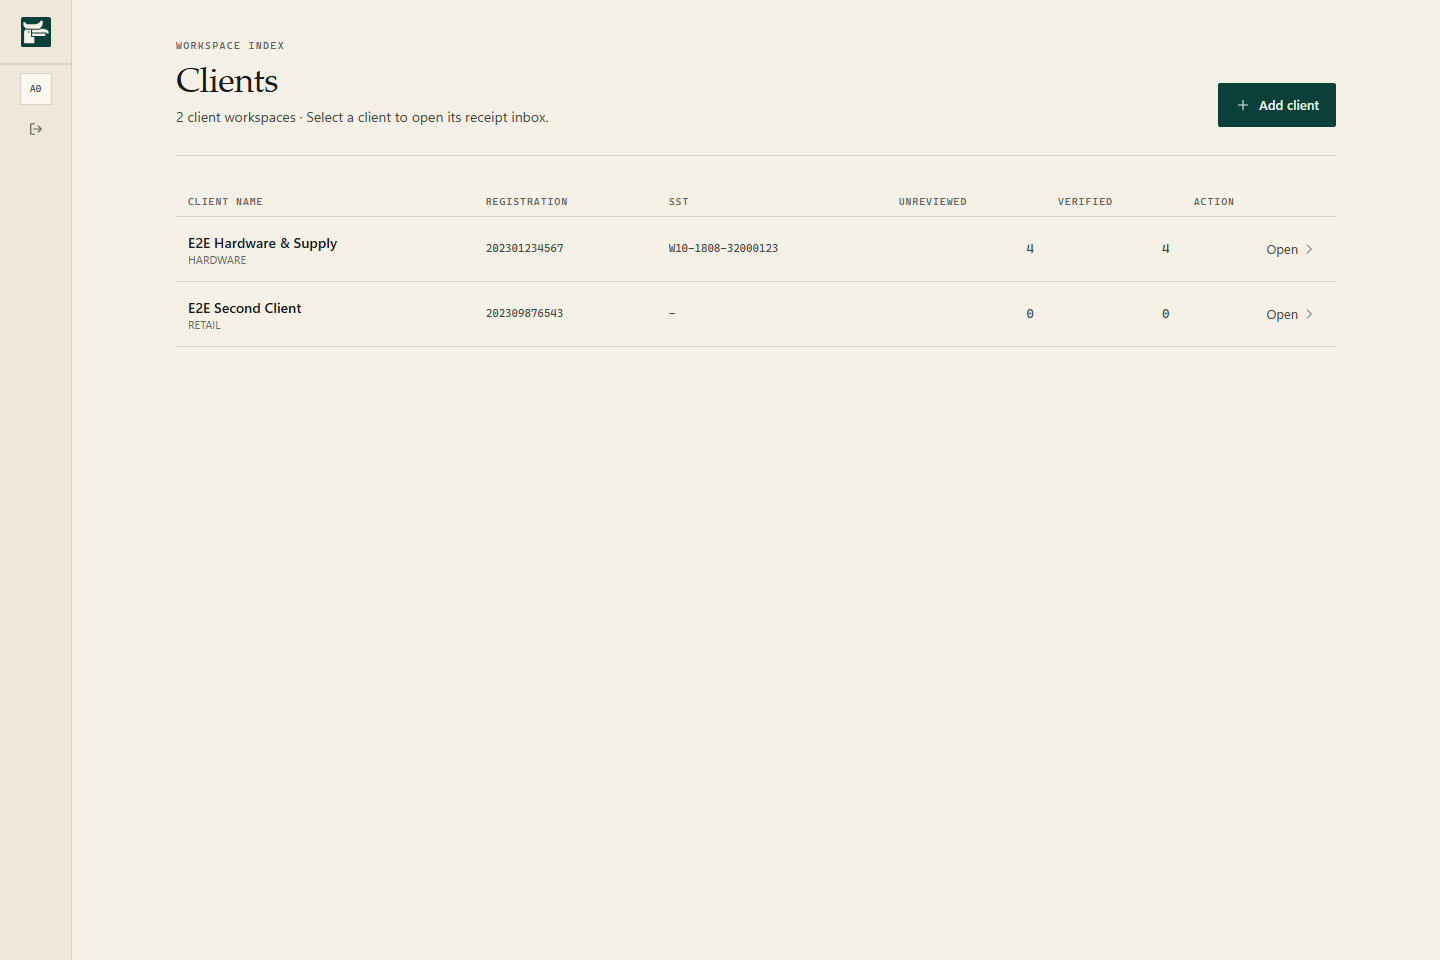
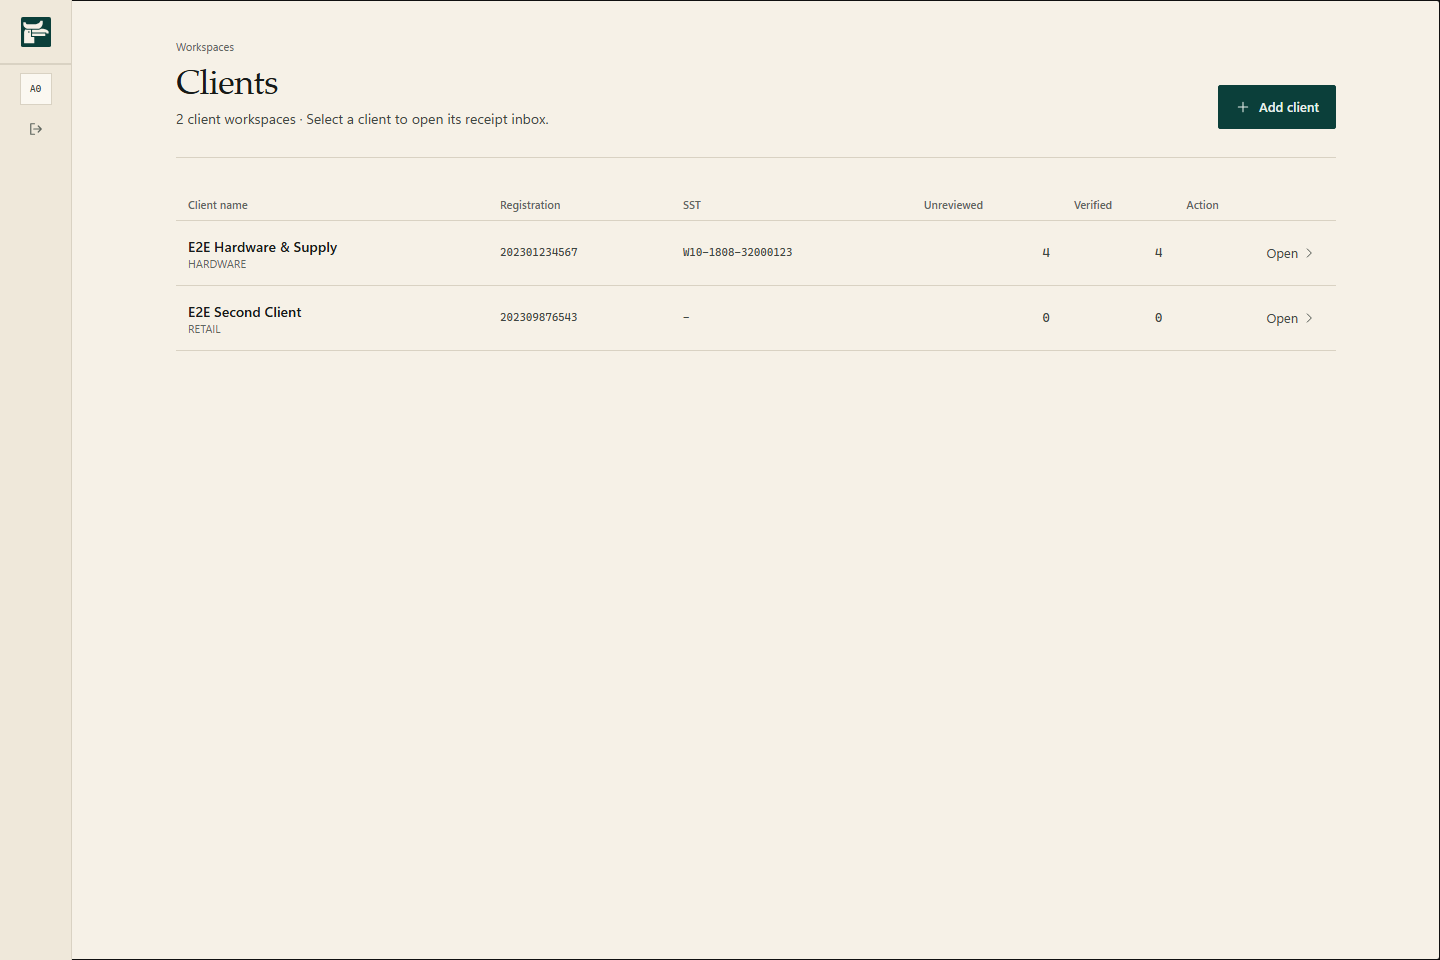
fix(review): freeze exported receipts before the first keystroke
An exported receipt rendered live inputs and an enabled Reject; the
console only discovered the backend 409 after a save attempt. The three
editable sections now sit inside a disabled fieldset with a plain
explanation, both mutating toolbar buttons are disabled, and the
Ctrl+Enter / Escape / Add-Line / Delete-Line shortcuts refuse the action
in the same guard so they cannot route around the buttons.

A direct write still reaches the backend guard, and the regression test
presses the shortcuts and asserts the 409 rather than trusting the UI.

The gate drops its internal doc reference and its second h1, and a
receipt whose blob is missing keeps its "Image request failed" fallback.

Evidence shots regenerated for all eight surfaces.

diff --git a/frontend/src/pages/ReviewPage.tsx b/frontend/src/pages/ReviewPage.tsx
@@ -289,8 +289,12 @@ export default function ReviewPage(): JSX.Element {
     return () => window.clearTimeout(timer);
   }, [flash, dismissFlash]);
 
+  // An exported receipt is terminal: the backend 409s every write, so the
+  // console must not offer edits in the first place.
+  const isLocked = activeReceipt?.status === 'STATUS_EXPORTED';
+
   const saveAndNext = useCallback(async (): Promise<void> => {
-    if (clientId === undefined || receiptId === undefined || !audit.valid) {
+    if (clientId === undefined || receiptId === undefined || !audit.valid || isLocked) {
       return;
     }
     try {
@@ -303,7 +307,7 @@ export default function ReviewPage(): JSX.Element {
   }, [audit.valid, clientId, receiptId, receipts, saveReceipt, navigate]);
 
   const rejectAndNext = useCallback(async (): Promise<void> => {
-    if (clientId === undefined || receiptId === undefined) {
+    if (clientId === undefined || receiptId === undefined || isLocked) {
       return;
     }
     try {
@@ -349,12 +353,12 @@ export default function ReviewPage(): JSX.Element {
       }
       if (action === 'save') {
         event.preventDefault();
-        void saveAndNext();
+        if (!isLocked) void saveAndNext();
         return;
       }
       if (action === 'reject') {
         event.preventDefault();
-        setConfirmingReject(true);
+        if (!isLocked) setConfirmingReject(true);
         return;
       }
       if (action === 'add-line') {
@@ -364,7 +368,7 @@ export default function ReviewPage(): JSX.Element {
       }
       if (action === 'delete-line') {
         event.preventDefault();
-        if (focusedLineKey !== null) {
+        if (!isLocked && focusedLineKey !== null) {
           removeDraftLine(focusedLineKey);
           setFocusedLineKey(null);
         }
@@ -394,6 +398,7 @@ export default function ReviewPage(): JSX.Element {
     blocker,
     confirmingReject,
     focusedLineKey,
+    isLocked,
     onReset,
     onZoomIn,
     onZoomOut,
@@ -505,7 +510,7 @@ export default function ReviewPage(): JSX.Element {
                     VERIFIED
                   </span>
                 ) : null}
-                {!audit.valid ? (
+                {!audit.valid && !isLocked ? (
                   <span className="text-label text-mismatch-text" role="status">
                     Fix {audit.invalidFields[0]} before verifying.
                   </span>
@@ -514,7 +519,7 @@ export default function ReviewPage(): JSX.Element {
                   ref={rejectTriggerRef}
                   type="button"
                   className={ACTION_BUTTON_CLASS}
-                  disabled={saveState === 'saving'}
+                  disabled={saveState === 'saving' || isLocked}
                   onClick={() => setConfirmingReject(true)}
                 >
                   {saveState === 'saving' ? 'Rejecting…' : 'Reject'}
@@ -525,7 +530,7 @@ export default function ReviewPage(): JSX.Element {
                 <button
                   type="button"
                   className={PRIMARY_BUTTON_CLASS}
-                  disabled={saveState === 'saving' || !audit.valid}
+                  disabled={saveState === 'saving' || !audit.valid || isLocked}
                   onClick={() => void saveAndNext()}
                   aria-keyshortcuts="Control+Enter"
                 >
@@ -568,7 +573,7 @@ export default function ReviewPage(): JSX.Element {
                 <button
                   type="button"
                   className={DANGER_BUTTON_CLASS}
-                  disabled={saveState === 'saving'}
+                  disabled={saveState === 'saving' || isLocked}
                   onClick={() => void rejectAndNext()}
                 >
                   {saveState === 'saving' ? 'Rejecting…' : 'Reject'}
@@ -577,6 +582,13 @@ export default function ReviewPage(): JSX.Element {
             </div>
           ) : null}
 
+          <fieldset disabled={isLocked} className="min-w-0 border-0 p-0">
+          <legend className="sr-only">Receipt fields</legend>
+          {isLocked ? (
+            <p className="mx-5 mt-4 border-l-[3px] border-border-strong px-3 py-2 text-ui text-text-secondary lg:mx-8">
+              This receipt has already been exported, so it can no longer be edited.
+            </p>
+          ) : null}
           <section className={SECTION_CLASS}>
             <div className="mb-3">
               <h2 className="section-title">Supplier &amp; date</h2>
@@ -760,6 +772,7 @@ export default function ReviewPage(): JSX.Element {
               )}
             </details>
           </section>
+          </fieldset>
         </div>
 
         <dialog

diff --git a/frontend/e2e/04-review.spec.ts b/frontend/e2e/04-review.spec.ts
@@ -1,5 +1,5 @@
 import { expect, test } from '@playwright/test'
-import { CLIENT_ID, RECEIPT, auditCount, receiptState, seedSession } from './fixtures'
+import { CLIENT_ID, RECEIPT, apiHeaders, auditCount, receiptState, seedSession } from './fixtures'
 
 const review = (receiptId: string): string => `/clients/${CLIENT_ID}/review/${receiptId}`
 
@@ -106,16 +106,29 @@ test.describe('Review console', () => {
     expect((await receiptState(page, RECEIPT.math)).status).toBe('STATUS_VERIFIED')
   })
 
-  test('an exported receipt refuses edits with the backend 409 detail', async ({ page }) => {
+  test('an exported receipt opens read-only and still 409s a direct write', async ({ page }) => {
     await page.goto(review(RECEIPT.frozen))
     await expect(page.getByRole('heading', { level: 2, name: 'Supplier & date' })).toBeVisible()
 
-    await page.getByLabel('Supplier Name').fill('Should not stick')
-    await page.getByRole('button', { name: /Verify & Next/ }).click()
+    // The console refuses the edit up front rather than letting it fail on save.
+    await expect(page.getByText(/already been exported, so it can no longer be edited/)).toBeVisible()
+    await expect(page.getByLabel('Supplier Name')).toBeDisabled()
+    await expect(page.getByRole('button', { name: /Verify & Next/ })).toBeDisabled()
+    await expect(page.getByRole('button', { name: /^Reject/ })).toBeDisabled()
 
-    await expect(
-      page.getByText('Receipt has already been exported and can no longer be edited'),
-    ).toBeVisible()
+    // The keyboard shortcuts must not route around the disabled buttons.
+    await page.keyboard.press('Escape')
+    await expect(page.getByText('Reject this receipt? This cannot be undone.')).toHaveCount(0)
+    await page.keyboard.press('Control+Enter')
+    await expect(page.getByText(/already been exported/)).toHaveCount(1)
     await expect(page).toHaveURL(new RegExp(RECEIPT.frozen))
+
+    // The backend guard is the real invariant: a direct write must still 409.
+    const response = await page.request.put(`/api/v1/clients/${CLIENT_ID}/receipts/${RECEIPT.frozen}`, {
+      headers: apiHeaders,
+      data: { merchant_name: 'Should not stick' },
+    })
+    expect(response.status()).toBe(409)
+    expect(await response.text()).toContain('already been exported')
   })
 })

diff --git a/frontend/src/components/AccountantGate.tsx b/frontend/src/components/AccountantGate.tsx
@@ -36,23 +36,27 @@ export default function AccountantGate({ children }: { children: ReactNode }) {
       <aside className="on-dark bg-brand-950 px-5 py-4 text-brand-50 lg:col-span-5 lg:flex lg:min-h-screen lg:flex-col lg:justify-between lg:px-10 lg:py-12">
         <div className="flex items-center gap-3">
           <BrandMark size={30} />
-          <h1 className="font-serif text-title font-normal tracking-[-0.01em]">Kenyalang Ledger</h1>
+          <span className="font-serif text-title font-normal tracking-[-0.01em]">
+            Kenyalang Ledger
+          </span>
         </div>
 
         <div className="mt-6 hidden lg:mt-0 lg:block">
           <p className="max-w-xs font-serif text-display font-normal leading-tight tracking-[-0.015em]">
             Every request carries an accountant id.
           </p>
-          <p className="mt-6 font-mono text-micro uppercase tracking-[0.14em] text-brand-100">
-            Route guard · docs/03 §3.1
+          <p className="mt-6 max-w-xs text-ui text-brand-100">
+            The id identifies the demo accountant whose ledger you are reading. It is not a
+            password.
           </p>
         </div>
       </aside>
 
       <div className="flex items-center justify-center px-5 py-10 lg:col-span-7 lg:px-10 lg:py-12">
         <form onSubmit={handleSubmit} className="w-full max-w-md">
-          <p className="eyebrow">Session</p>
-          <h2 className="section-title mt-2">Open the console</h2>
+          <h1 className="font-serif text-display font-normal tracking-[-0.015em] text-text-primary">
+            Open the console
+          </h1>
           <p className="mt-2 text-body text-text-secondary">
             Enter the accountant session id to open the console.
           </p>

diff --git a/frontend/e2e/05-exports.spec.ts b/frontend/e2e/05-exports.spec.ts
@@ -98,13 +98,11 @@ test.describe('Exports', () => {
     await page.getByRole('group', { name: 'Status filter' }).getByRole('button', { name: 'Exported' }).click()
     await expect(page.getByText(/receipts 1–3 of 3/)).toBeVisible()
 
-    // Exported rows can no longer be reviewed into a different state.
+    // Exported rows open read-only: the console refuses the mutation up front
+    // and the backend refuses it too.
     await page.goto(`/clients/${CLIENT_ID}/review/${RECEIPT.mark}`)
-    await expect(page.getByLabel('Supplier Name')).toBeVisible()
-    await page.getByLabel('Supplier Name').fill('Mutation after export')
-    await page.getByRole('button', { name: /Verify & Next/ }).click()
-    await expect(
-      page.getByText('Receipt has already been exported and can no longer be edited'),
-    ).toBeVisible()
+    await expect(page.getByLabel('Supplier Name')).toBeDisabled()
+    await expect(page.getByRole('button', { name: /Verify & Next/ })).toBeDisabled()
+    await expect(page.getByText(/already been exported, so it can no longer be edited/)).toBeVisible()
   })
 })

diff --git a/docs/e2e-evidence/README.md b/docs/e2e-evidence/README.md
@@ -11,7 +11,8 @@ seeded fixture database. Regenerate after any UI change; the shots are generated
 
 ## Defects found and fixed
 
-Seven defects surfaced from the audit and are fixed in this branch, each with a regression test.
+Fourteen defects surfaced across the Playwright gate, the design audit and the live browser
+pass. All are fixed in this branch; the ones with a plausible regression carry a test.
 
 1. **Inbox overflowed the page at 640–700px (medium).** The table switched to its seven desktop
    columns at `sm` (640px) but needs ≈671px, so the document scrolled sideways by up to 31px on
@@ -41,6 +42,39 @@ Seven defects surfaced from the audit and are fixed in this branch, each with a 
    tests. Excluded in `vite.config.ts`; `e2e/**` is linted with Node globals instead and
    type-checked by `tsconfig.e2e.json` through `tsc -b`.
 
+8. **A failed receipt load painted the previous receipt's fields (high, from a store review).**
+   `loadReceipt` swallowed the error and left `activeReceipt` set, so opening receipt B after A
+   showed A's values under B's URL, and Save wrote to A. The store now clears the draft, records
+   `receiptError`, resets the saved stamp, and refuses a save whose expected id differs
+   (`receiptStore.ts`, `ReviewPage.tsx`).
+9. **The saved stamp bled onto the next receipt (medium).** `saveState === 'saved'` persisted
+   across navigation, so the VERIFIED stamp overpainted the next NEEDS_REVIEW receipt for 1.2s.
+   Flash state now carries `flashFor` and only paints for the matching receipt id.
+10. **A failed client refresh looked like an empty account (medium).** `loadClients` replaced
+    `clients` with `[]` on error, so the error banner and "Add your first client" rendered
+    together. The previous list is now kept.
+11. **An exported receipt still looked editable (high).** The console rendered live inputs and an
+    enabled Reject for `STATUS_EXPORTED`; only a save attempt surfaced the backend 409. The
+    sections now render inside a disabled `<fieldset>` with a plain explanation, and both
+    mutating toolbar buttons are disabled, and the Ctrl+Enter / Escape / Add-Line / Delete-Line
+    shortcuts are refused in the same guard so they cannot route around the buttons. Regression:
+    `04-review → an exported receipt opens read-only and still 409s a direct write`, which also
+    presses Escape and Ctrl+Enter against the frozen receipt and asserts the backend 409 directly.
+12. **FastAPI 422 details were rendered raw (medium).** A malformed receipt id printed the whole
+    validation array (`uuid_parsing`, `loc`, `ctx`). `parseDetail` now reduces a detail array to
+    a field list, so the console says "Check these fields: path.receipt_id."
+13. **The inbox filter tabs had no counts (medium) and the dashboard buried its own answer
+    (medium).** Tabs now carry per-bucket counts from one grouped count on the receipt list
+    response (`status_counts`, computed over every status so the active filter cannot narrow it).
+    The dashboard promotes month spend to a 56px figure, demotes the three counts, and links
+    "Needs review" into the inbox.
+14. **Design tells removed.** Uppercase mono micro-labels (`.eyebrow`, `.section-label`,
+    `.field-label`, `.data-table th`), the rail's coloured active bar, the mobile tab's brand top
+    rule, the review sections' 01/02/03 numbering, and the four decorative `border-l-2` status
+    bars all went. Zero-spend category rows no longer print `RM 0.00`. A receipt with no merchant
+    shows `—` with the filename demoted to secondary text. The gate no longer prints
+    `Route guard · docs/03 §3.1` at the user, and has one `h1`.
+
 ## Observations, no change made
 
 - **Sign-out is a 40px icon button and inbox filter tabs are 40px tall.** Below the 44px
@@ -56,6 +90,12 @@ Seven defects surfaced from the audit and are fixed in this branch, each with a 
 - **No slop.** No gradients, backdrop blur or text shadows anywhere in the rendered DOM; one
   `h1` per page; `prefers-reduced-motion` collapses transitions to 0.01ms; focus-visible paints
   a 2px ring; every async result is exposed on a `role="status"`/`role="alert"` region.
+- **The Inbox keeps its per-row Open button.** A design audit called it a duplicate of the row
+  `onClick`, but the row handler is not keyboard reachable (no `tabindex`, no key handler), so
+  that button is the only tab path into the review console. Removing it would have been a
+  keyboard regression.
+- **A receipt image that 404s shows "Image request failed (HTTP 404)".** The seeded demo receipt
+  has no stored blob; the fallback is correct and the surface stays usable.
 - **Horizontal reflow is clean** across a 17-width sweep (320, 360, 390, 414, 480, 560, 600, 639,
   640, 660, 700, 720, 768, 900, 1024, 1280, 1440) on all six surfaces; 720px is what 200% browser
   zoom gives on a 1440 desktop. Gated by `08-standards → every surface reflows across the width
